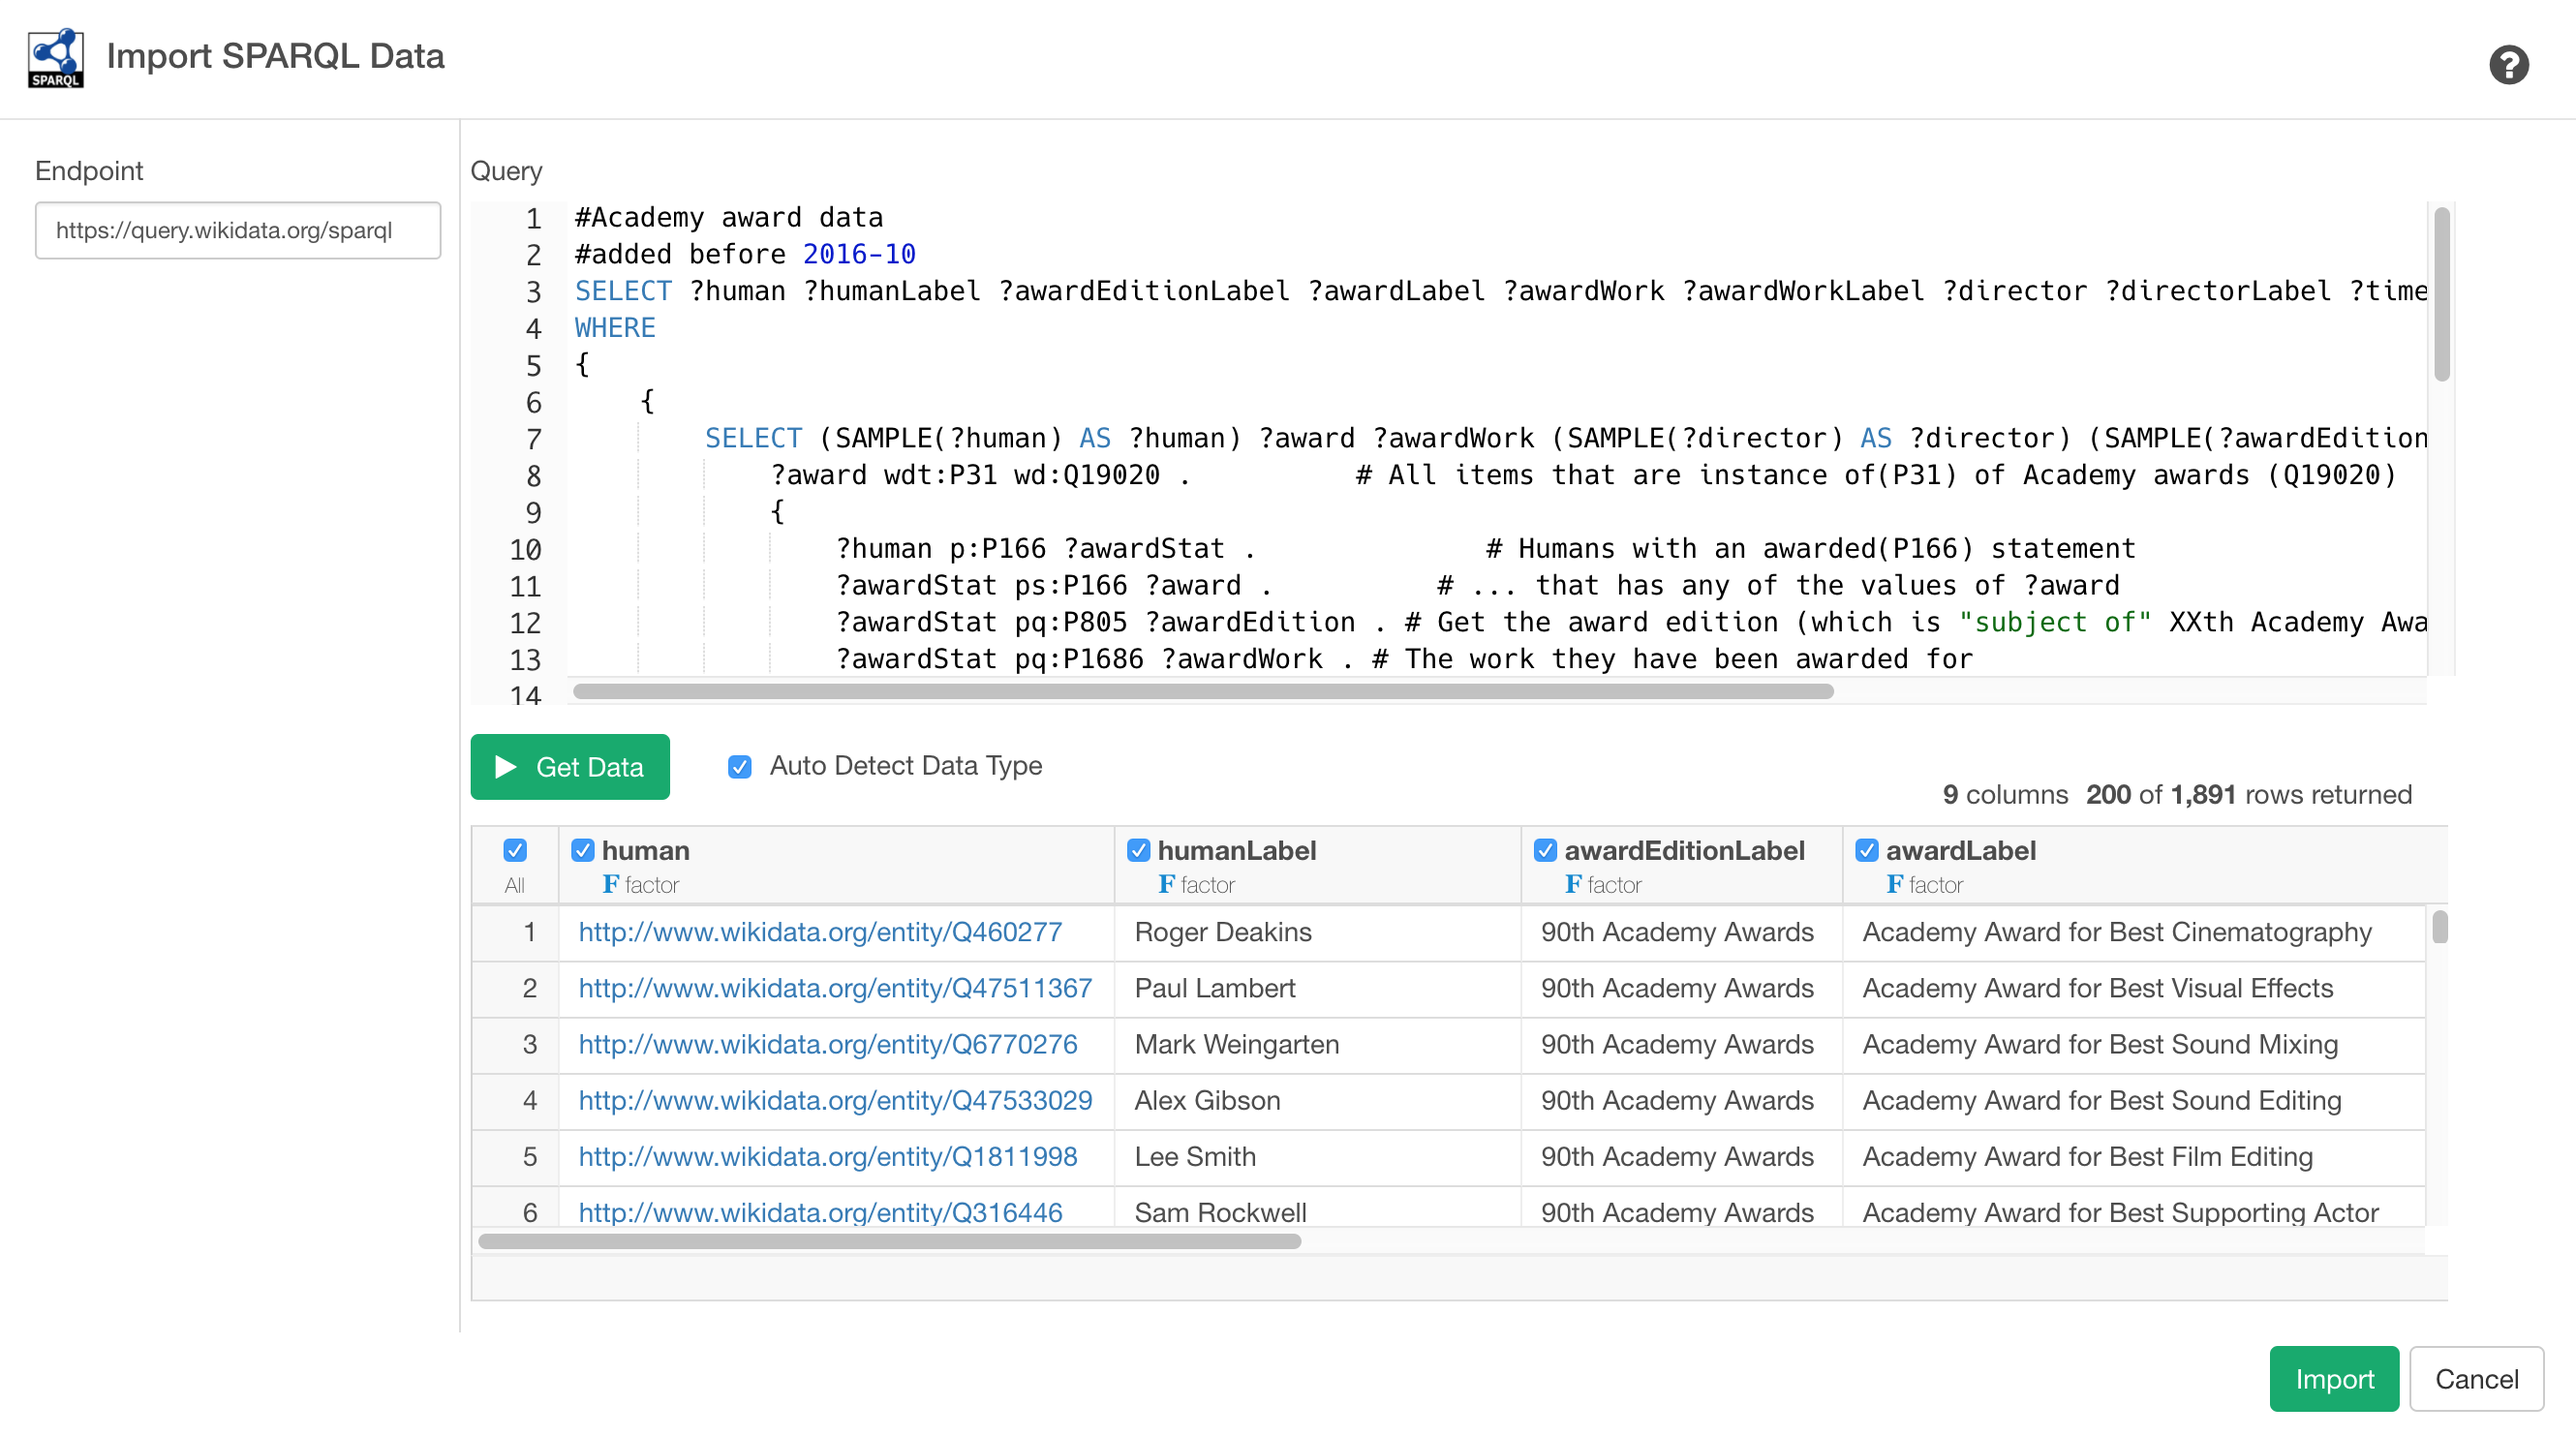
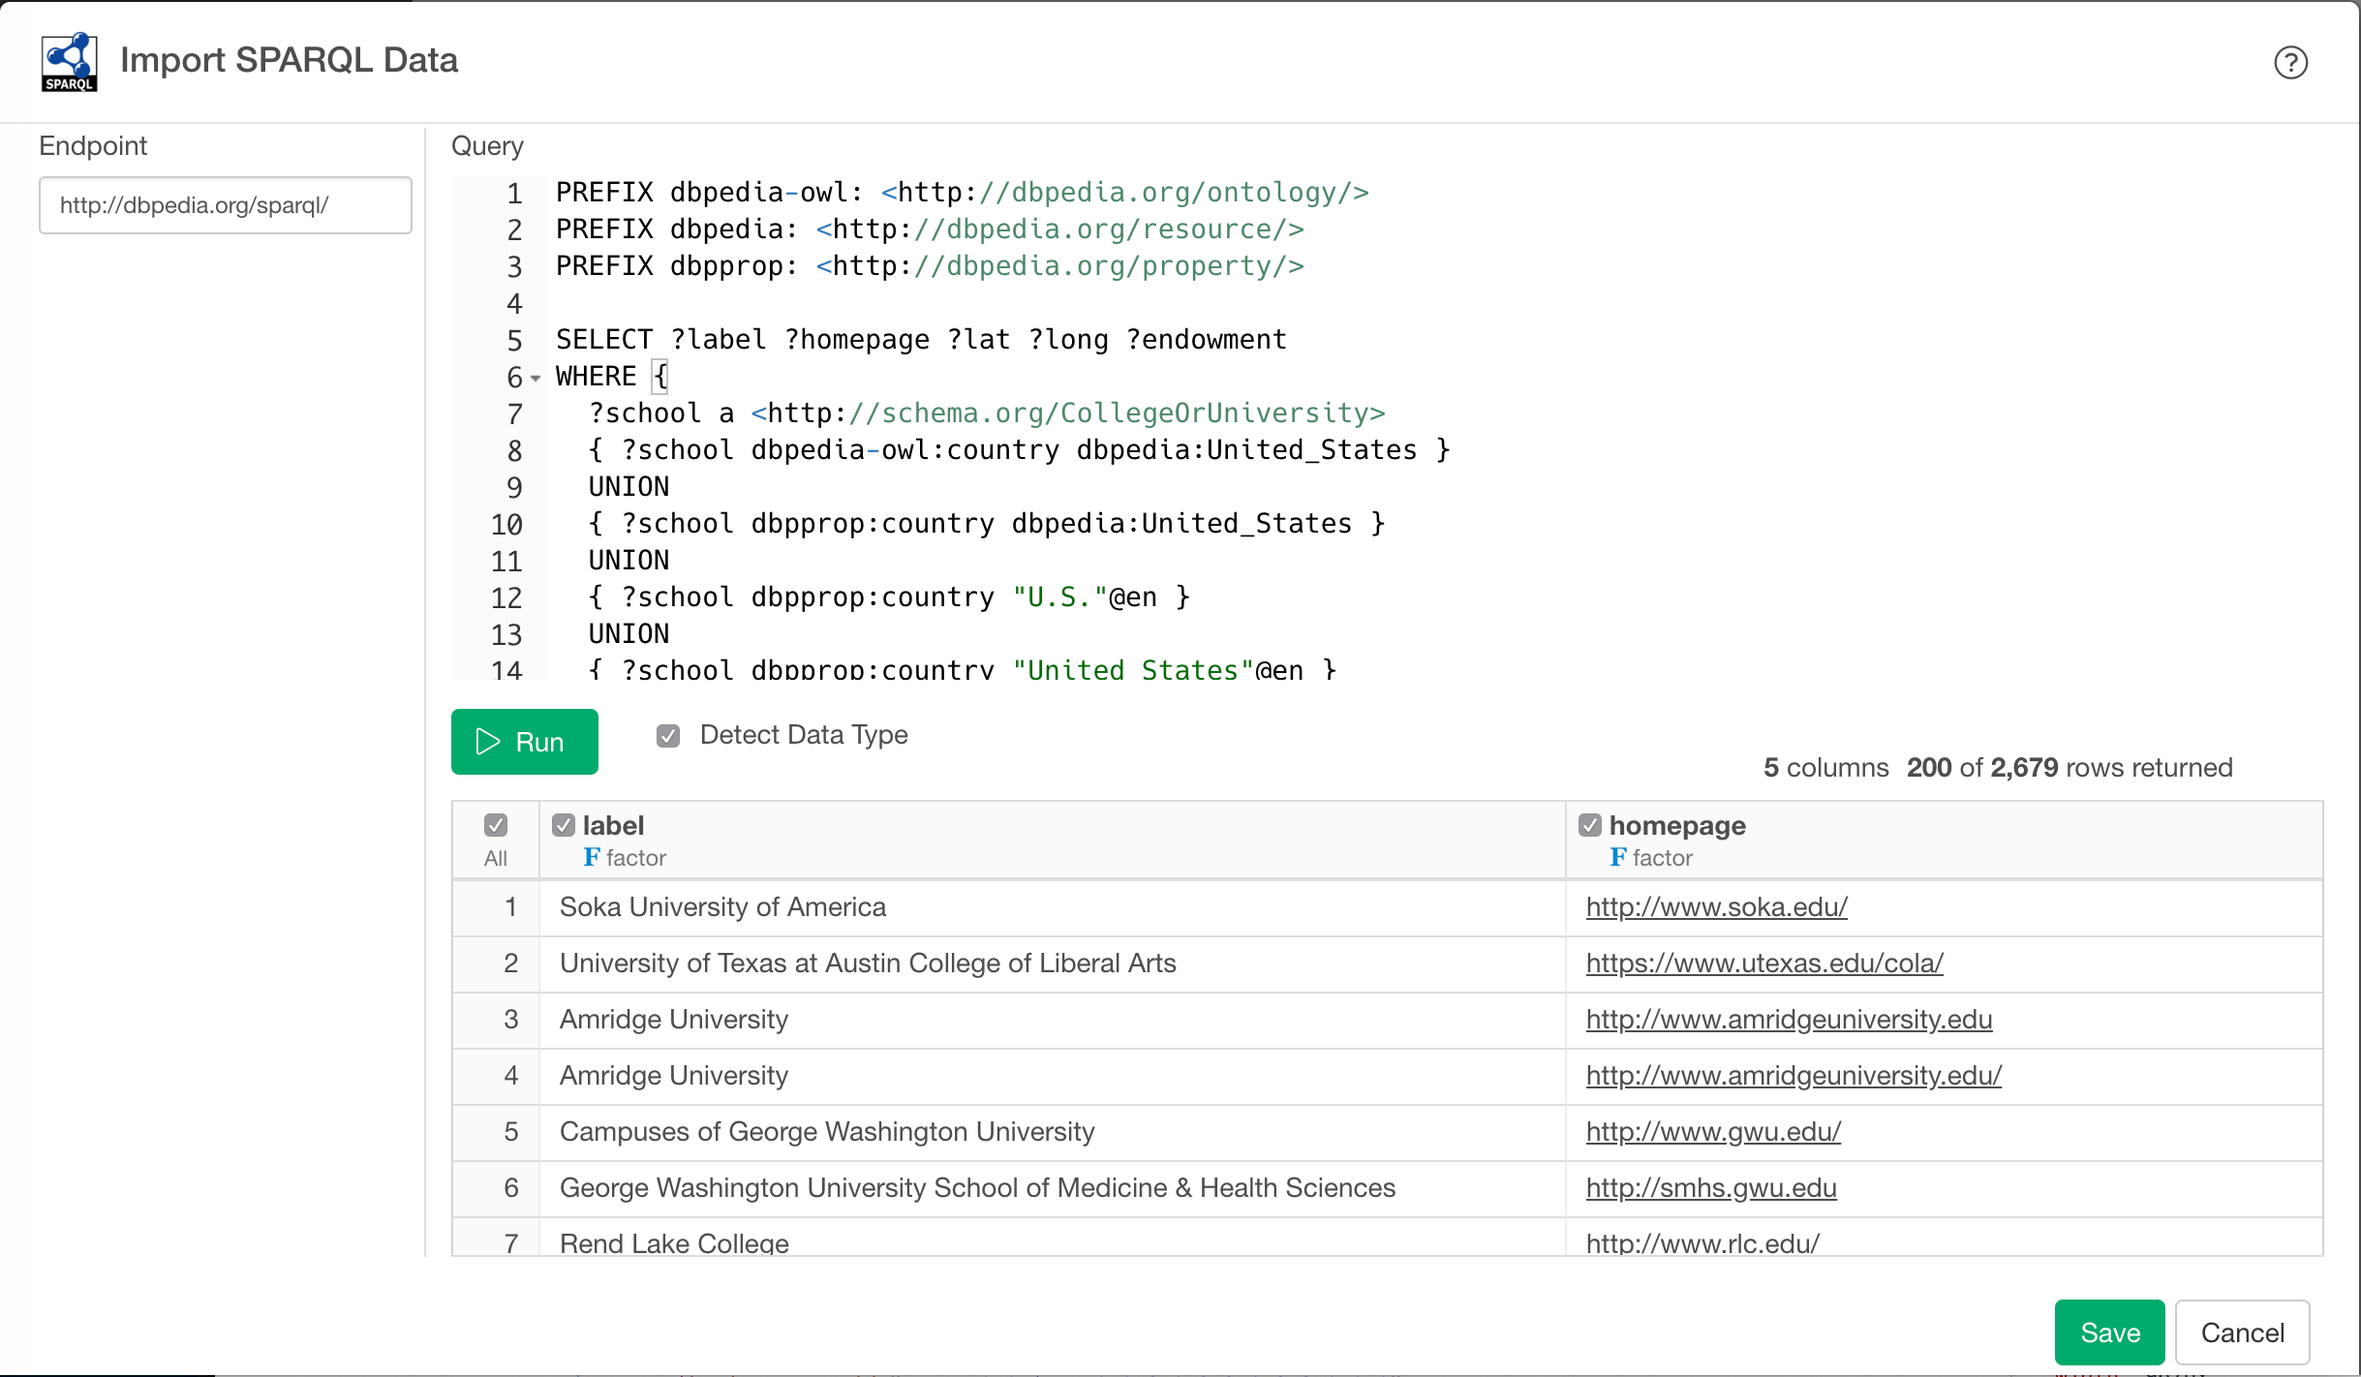
SPARQL example update.

diff --git a/import/SPARQL.md b/import/SPARQL.md
@@ -8,9 +8,8 @@ Allows to get data with SPARQL which is a RDF query language and protocol produc
 
 You can find list of SPARQL endpoint examples from [this site](https://www.w3.org/wiki/SparqlEndpoints).
 
-From the list, copy an endpoint URL and paste it to endpoint Input Field. Or type in your endpoint URL.
 
-For example, if you want to get data from [Wikidata](https://www.wikidata.org/wiki/Wikidata:Main_Page) you can use `https://query.wikidata.org/sparql` as your Endpoint URL.
+For example, if you want to get data from [DBPedia](https://wiki.dbpedia.org/) you can use `http://dbpedia.org/sparql/` as your Endpoint URL.
 
 ![](images/SPARQL_endpoint.png)
 
@@ -18,42 +17,30 @@ For example, if you want to get data from [Wikidata](https://www.wikidata.org/wi
 ### 1.2 Query
 
 You can write a SPARQL Query in Query field.
-For example, if you want to query Academy award data, you can write a query like this.
+For example, if you want to query Universities in United States, you can write a query like this.
 
 ```sql
-#Academy award data
-#added before 2016-10
-SELECT ?human ?humanLabel ?awardEditionLabel ?awardLabel ?awardWork ?awardWorkLabel ?director ?directorLabel ?time
-WHERE
-{
-	{
-		SELECT (SAMPLE(?human) AS ?human) ?award ?awardWork (SAMPLE(?director) AS ?director) (SAMPLE(?awardEdition) AS ?awardEdition) (SAMPLE(?time) AS ?time) WHERE {
-			?award wdt:P31 wd:Q19020 .			# All items that are instance of(P31) of Academy awards (Q19020)
-			{
-				?human p:P166 ?awardStat .              # Humans with an awarded(P166) statement
-				?awardStat ps:P166 ?award .     	 # ... that has any of the values of ?award
-				?awardStat pq:P805 ?awardEdition . # Get the award edition (which is "subject of" XXth Academy Awards)
-				?awardStat pq:P1686 ?awardWork . # The work they have been awarded for
-				?human wdt:P31 wd:Q5 . 				# Humans
-			} UNION {
-				?awardWork wdt:P31 wd:Q11424 . # Films
-				?awardWork p:P166 ?awardStat . # ... with an awarded(P166) statement
-				?awardStat ps:P166 ?award .     	 # ... that has any of the values of ?award
-				?awardStat pq:P805 ?awardEdition . # Get the award edition (which is "subject of" XXth Academy Awards)
-			}
-			OPTIONAL {
-				?awardEdition wdt:P585 ?time . # the "point of time" of the Academy Award
-				?awardWork wdt:P57 ?director .
-			}
-		}
-		GROUP BY ?awardWork ?award # We only want every movie once for a category (a 'random' person is selected)
-	}
+PREFIX dbpedia-owl: <http://dbpedia.org/ontology/>
+PREFIX dbpedia: <http://dbpedia.org/resource/>
+PREFIX dbpprop: <http://dbpedia.org/property/>
 
-	SERVICE wikibase:label {            # ... include the labels
-		bd:serviceParam wikibase:language "[AUTO_LANGUAGE],en" .
-	}
+SELECT ?label ?homepage ?lat ?long ?endowment
+WHERE {
+  ?school a <http://schema.org/CollegeOrUniversity> 
+  { ?school dbpedia-owl:country dbpedia:United_States }
+  UNION
+  { ?school dbpprop:country dbpedia:United_States }
+  UNION 
+  { ?school dbpprop:country "U.S."@en }
+  UNION 
+  { ?school dbpprop:country "United States"@en }
+
+  OPTIONAL { ?school rdfs:label ?label .
+             FILTER (LANGMATCHES(LANG(?label), 'en')) }
+  OPTIONAL { ?school foaf:homepage ?homepage }
+  OPTIONAL { ?school geo:lat ?lat ; geo:long ?long }
+  OPTIONAL { ?school dbpedia-owl:endowment ?endowment }
 }
-ORDER BY DESC(?time)
 ```
 
 You can find a list of SPARQL query example in [this site](https://www.wikidata.org/wiki/Wikidata:SPARQL_query_service/queries/examples)
@@ -64,4 +51,3 @@ As for SPARQL syntax, please refer [this site](https://www.w3.org/TR/sparql11-ov
 
 Once you confirmed the query result, click `Import` button to import the data as a data frame in Exploratory.
 ![](images/SPARQL_import.png)
-
